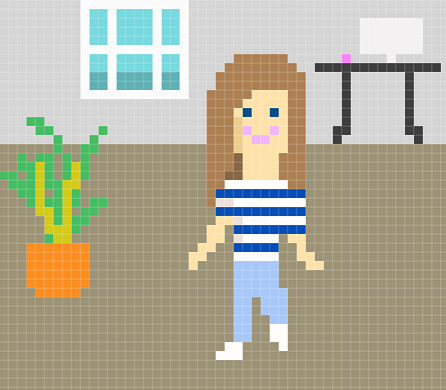
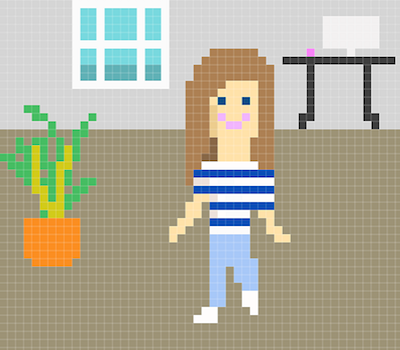
Change index image and bio

diff --git a/index.html b/index.html
@@ -38,10 +38,8 @@
         Christine Schatz
         </p>
         <p class="my_bio">
-         Budding software developer. I blog about music <span class="emphasis"><a href="http://www.listentotheloop.com">here</a></span>.<br><br>
-         <br>metaxis:<br> the condition of "in-betweenness" that is being human (Plato). we are suspended on a web of polarities--the one and the many, eternity and time, freedom and fate, instinct and intellect, risk and safety, <br>
-         <br><span class="emphasis">the virtual and the real</span></p>
-            <br>
+         Hi! I'm a budding software developer. I like to write <a href="http://www.github.com/ChristineSchatz" target="_blank">code</a>. I also blog about music <span class="emphasis"><a href="http://www.listentotheloop.com">here.</a></span>
+
         </div>
         </p>
       </section>

diff --git a/stylesheets/default.css b/stylesheets/default.css
@@ -10,7 +10,7 @@ body {
    font-family: 'Lato', sans-serif;
    font-family: 'Muli', sans-serif;
    font-size: 1.5em;
-   background-image: url("../palmtree.jpg");
+   background-image: url("../pixel_schatz1.png");
    background-attachment: fixed;
    background-repeat: no-repeat;
    background-position: left;
@@ -51,7 +51,7 @@ body {
 
 .my_bio {
   font-family: 'Muli', sans-serif;
-  /*width: 300px;*/
+  width: 350px;
   font-weight: bold;
   text-align: left;
   font-size: 1.3em;
@@ -80,7 +80,7 @@ body {
 
 #blurb {
 
-    width: 700px;
+    width: 500px;
     height: 500px;
     margin: 0 auto;
     color: black;

diff --git a/projects/javascript_racer/beach_racer.css b/projects/javascript_racer/beach_racer.css
@@ -32,7 +32,7 @@ body {
 
 #main {
   padding-top: 85px;
-  width: 900px;
+  width: 100%;
   margin-left: auto;
   margin-right: auto;
 }
